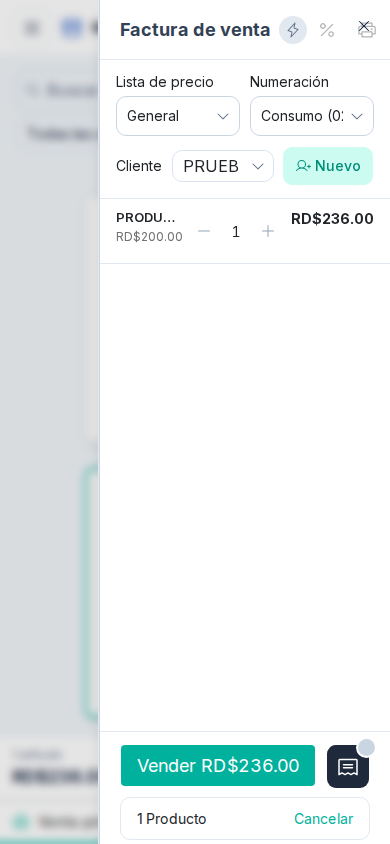
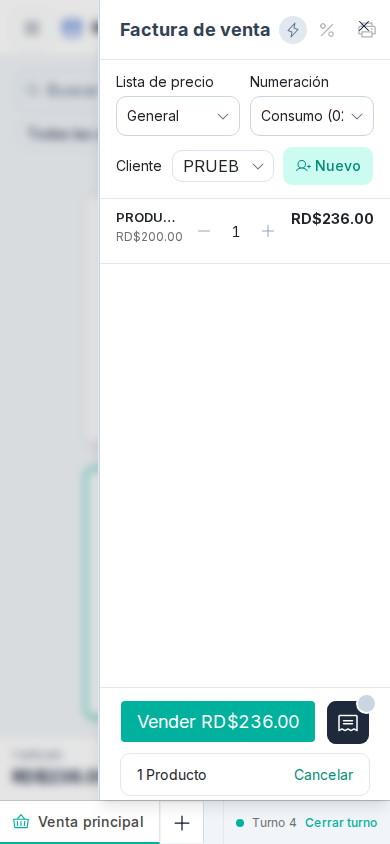
fix(pos): deja visible la barra inferior al abrir Ver factura

Changed region(s): [[0.0, 0.8009, 0.9846, 1.0]]

diff --git a/src/components/ui/sheet.tsx b/src/components/ui/sheet.tsx
@@ -41,14 +41,19 @@ function SheetContent({
   children,
   side = "right",
   showCloseButton = true,
+  overlayClassName,
+  overlayStyle,
   ...props
 }: SheetPrimitive.Popup.Props & {
   side?: "top" | "right" | "bottom" | "left"
   showCloseButton?: boolean
+  /** Permite dejar una franja del fondo sin velo (p. ej. la barra fija del POS). */
+  overlayClassName?: string
+  overlayStyle?: React.CSSProperties
 }) {
   return (
     <SheetPortal>
-      <SheetOverlay />
+      <SheetOverlay className={overlayClassName} style={overlayStyle} />
       <SheetPrimitive.Popup
         data-slot="sheet-content"
         data-side={side}

diff --git a/src/app/(pos)/pos/_components/vender/vender-pos.tsx b/src/app/(pos)/pos/_components/vender/vender-pos.tsx
@@ -537,7 +537,12 @@ export function VenderPos({
           </div>
 
           <Sheet open={sheetAbierto} onOpenChange={setSheetAbierto}>
-            <SheetContent side="right" className="w-full gap-0 p-0 sm:max-w-[420px]">
+            <SheetContent
+              side="right"
+              className="w-full gap-0 p-0 sm:max-w-[420px]"
+              overlayStyle={{ bottom: "2.75rem" }}
+              style={{ bottom: "2.75rem", height: "calc(100dvh - 2.75rem)" }}
+            >
               <SheetTitle className="sr-only">Factura de venta</SheetTitle>
               <PanelFactura
                 terminal={terminal}

diff --git a/src/lib/pos/diseno-pos.test.ts b/src/lib/pos/diseno-pos.test.ts
@@ -66,6 +66,12 @@ describe("diseño POS estilo Alegra", () => {
     expect(panel, "Las pestañas no van dentro del panel del carrito; van en la barra inferior").not.toContain(
       "PestanasVentaPos",
     );
+    expect(vender, "El Sheet «Ver factura» debe terminar 44 px antes para no tapar la barra inferior").toContain(
+      'height: "calc(100dvh - 2.75rem)"',
+    );
+    expect(vender, "El velo del Sheet tampoco debe cubrir la barra inferior").toContain(
+      'overlayStyle={{ bottom: "2.75rem" }}',
+    );
   });
 
   it("los archivos del POS no usan --primary ni #1e56c7 salvo los pendientes", () => {

diff --git a/AGENTS.md b/AGENTS.md
@@ -77,7 +77,7 @@ Viven en `.opencode/skills/<nombre>/SKILL.md`. Cárgalas con la herramienta `ski
 
 Hechos: Inicio, Ingresos (facturas de venta y recurrentes, pagos recibidos, notas de crédito y débito, cotizaciones, conduces), Compras (facturas de proveedor, pagos, gastos menores, notas de crédito, órdenes de compra, pagos recurrentes), Contactos, Inventario (productos, ajustes, transferencias, listas de precios, almacenes, categorías), Bancos (cuentas y conciliaciones), Contabilidad (catálogo de cuentas, asientos, numeraciones, activos fijos, periodos), Reportes y Configuración.
 
-Punto de venta (`src/app/(pos)/pos/`, shell propio con riel lateral `menu-pos.tsx` de 56 px → 271 px, sin el sidebar de Contabilidad): `/pos` (vender), `/pos/pagos` (registro de pagos), `/pos/turnos`, `/pos/historial` (ventas) y `/pos/devoluciones`. La configuración de terminales vive en `/dashboard/configuracion/pos`.
+Punto de venta (`src/app/(pos)/pos/`, shell propio con riel lateral `menu-pos.tsx` de 52 px → 271 px, sin el sidebar de Contabilidad): `/pos` (vender), `/pos/pagos` (registro de pagos), `/pos/turnos`, `/pos/historial` (ventas) y `/pos/devoluciones`. La configuración de terminales vive en `/dashboard/configuracion/pos`.
 
 Transversales: adjuntos por documento/ficha, auditoría de quién creó/modificó/anuló, búsqueda global, saldos iniciales, tipos de entrada de diario, límite de crédito por contacto y control de `vende_negativo` por producto. El motor contable se resume en `docs/motor-contable.md`; tablas y RPC en `supabase/AGENTS.md`.
 
@@ -150,7 +150,7 @@ Candados que ya existen:
 - `src/lib/supabase/reset-virgen.test.ts` — exige que las 64 tablas `public.*` de las migraciones estén clasificadas una sola vez en `docs/pruebas/reset-base-virgen.sql`, dentro de `BEGIN…COMMIT`, sin tocar `perfiles` ni `auth.users`.
 - `tests/e2e/numeraciones.spec.ts` — guardar B16 sin cambios cierra el diálogo y un nombre en blanco muestra el error en español (requiere `E2E_EMAIL`/`E2E_PASSWORD`, como el humo).
 - `supabase/tests/anular_ajuste_costo_test.sql` — anular un ajuste de inventario de entrada devuelve la cantidad y revierte el costo promedio; anular una compra ya lo hacía (`anular_compra_costo_test.sql`).
-- `src/lib/pos/diseno-pos.test.ts` — el POS usa los tokens `--pos-*` (teal `#00b19d`, copia exacta de Alegra); prohíbe `--primary` y `#1e56c7` en `src/app/(pos)/pos/` con una lista de pendientes que solo puede encoger, y exige la paleta en `globals.css`. Además fija el Punto 1: el turno y las pestañas de ventas van en la barra inferior (`barra-inferior-pos.tsx`), no en una línea sobre el buscador ni dentro del panel.
+- `src/lib/pos/diseno-pos.test.ts` — el POS usa los tokens `--pos-*` (teal `#00b19d`, copia exacta de Alegra); prohíbe `--primary` y `#1e56c7` en `src/app/(pos)/pos/` con una lista de pendientes que solo puede encoger, y exige la paleta en `globals.css`. Además fija el Punto 1: el turno y las pestañas de ventas van en la barra inferior (`barra-inferior-pos.tsx`), no en una línea sobre el buscador ni dentro del panel, y el Sheet móvil termina 44 px antes para no tapar la barra.
 
 ## Antes de decir "listo"
 

diff --git a/docs/diseno/alegra-pos/MEDIDAS.md b/docs/diseno/alegra-pos/MEDIDAS.md
@@ -72,6 +72,7 @@ renderizado y `styles.css`. La columna «Medoxigas» es lo que quedó implementa
 | Pestaña activa | 160×43 px, icono 18, texto 14/500 `#474747`, acento teal | 160×43 px, icono 18, texto 14/500 | Subrayado teal abajo (como la captura 03). |
 | Botón «+» | 44×40 px, borde derecho, icono 20 | 44×44 px, borde derecho, icono 20 | Abre otra venta en espera. |
 | Estado del turno | No está en la barra (Alegra lo pone sobre el buscador) | A la derecha: punto + «Turno No N abierto» / «Turno cerrado» + «Cerrar/Abrir turno» | Decisión de Waldy (Punto 1). |
+| Sheet móvil «Ver factura» | No aplica | `calc(100dvh - 44px)`, con el velo también 44 px arriba | Deja la barra visible al pie; el carrito termina encima. |
 
 ## Colores y tipografía
 

diff --git a/docs/diseno/alegra-pos/GUIA-POS.md b/docs/diseno/alegra-pos/GUIA-POS.md
@@ -92,7 +92,9 @@ de inventario), `#d1d5db` (foto vacía).
 - Todo color de texto/fondo usa tokens o lleva su variante `dark:`; no hay
   `bg-white` ni grises claros sin pareja oscura.
 - El panel se oculta por debajo de 1024 px y se abre en `Sheet` con el botón
-  «Ver factura» (resumen de total arriba de la barra inferior).
+  «Ver factura» (resumen de total arriba de la barra inferior). El Sheet y su
+  velo terminan 44 px antes del borde inferior (`calc(100dvh - 2.75rem)`): la
+  barra queda visible al pie y el carrito termina justo encima.
 - En móvil la barra conserva pestañas y turno; el botón «Nuevo producto» pasa a
   icono y las tarjetas se apilan centradas sin desbordar.
 
